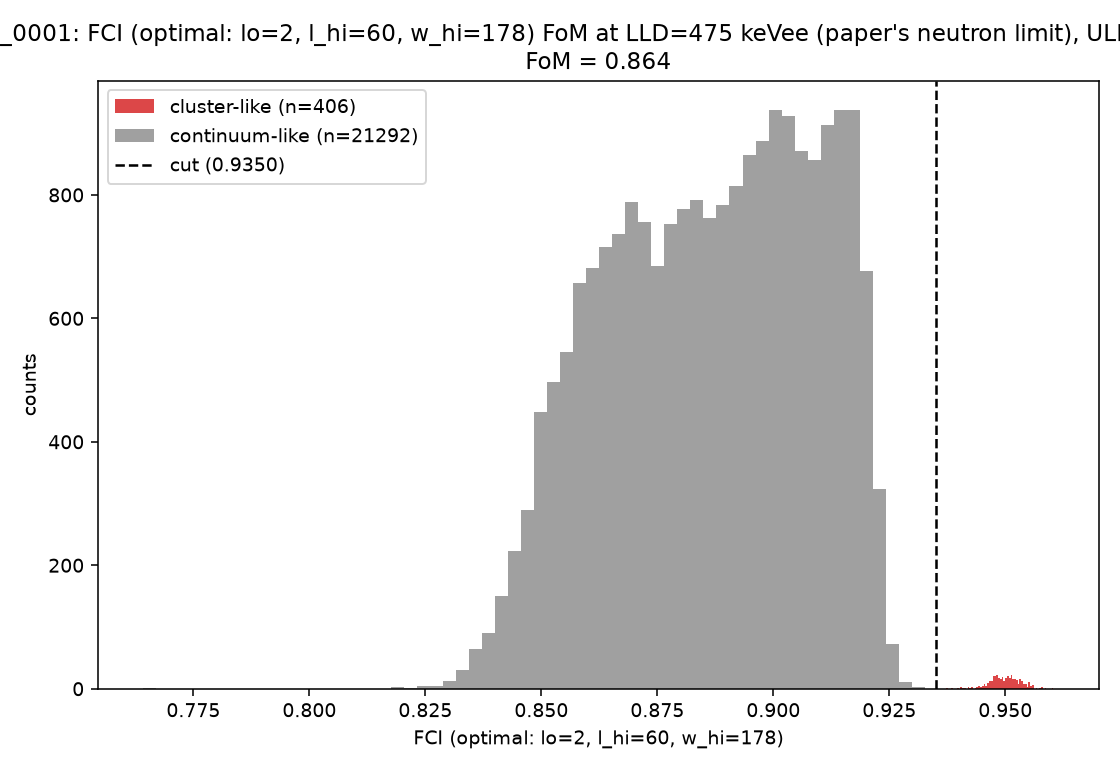
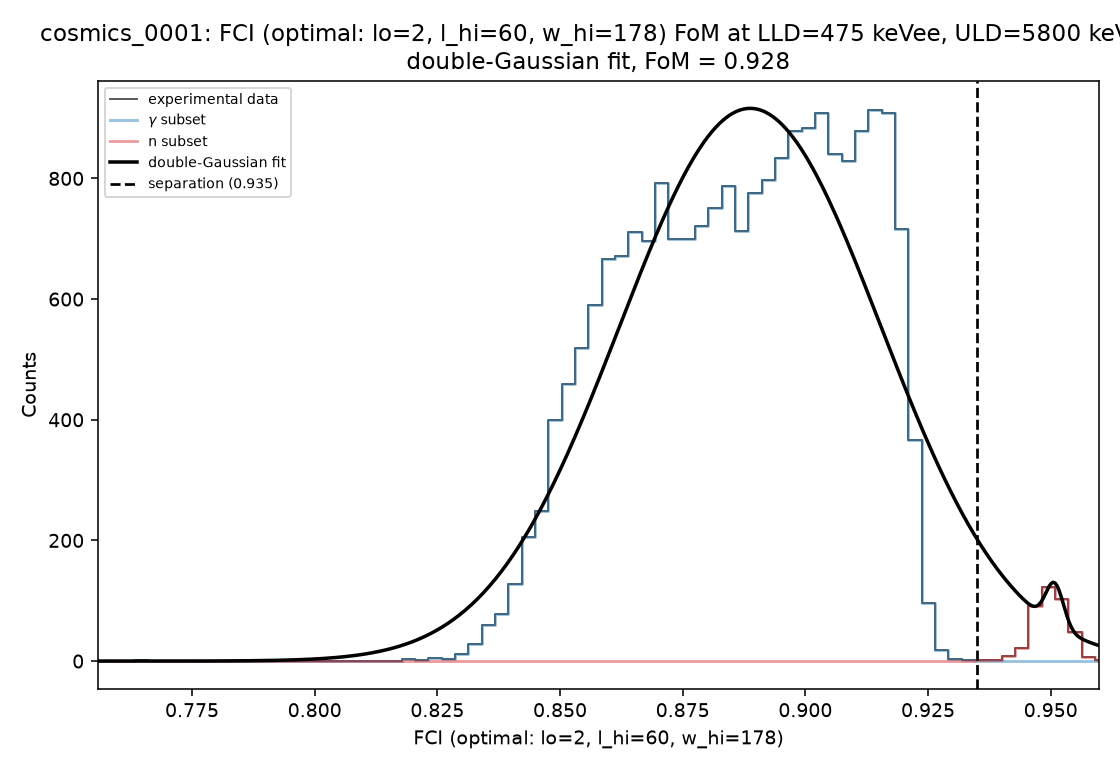
#23: add FoM plots with double-Gaussian fits

diff --git a/sw/analysis/plot_cosmics_optimal_psd_fci.py b/sw/analysis/plot_cosmics_optimal_psd_fci.py
@@ -37,8 +37,8 @@ from analysis.plot_cosmics_gn_metrics import (
     ULD_KEVEE,
     derive_separation_cuts,
     plot_fom_vs_energy,
-    robust_fom,
 )
+from analysis.plot_optimized_psd_fci import fit_double_gaussian, hist_panel
 
 DATA_PATH = "/home/ivan/datasets/cosmics-CLYC/cosmics_0001_optimal_psd_fci.csv"
 OUT_DIR = Path(__file__).resolve().parent.parent.parent / "docs" / "log" / "images"
@@ -152,24 +152,37 @@ def plot_fom_at_lld(values, keVee, cut, name, out_name, color,
     actual cluster/continuum separation. Fixing the floor at the paper's own limit is the same
     argument this section already made for the LLD=475 keVee histogram pair (8v): below it, no real
     neutron can produce this light output at all, so the population above it is a fair one to score.
+
+    The lobes at LLD=475 are not Gaussian-like (checked visually), so the FoM here comes from a
+    proper double-Gaussian fit -- sw/analysis/plot_optimized_psd_fci.py's own established
+    `fit_double_gaussian`, ONE six-parameter fit to the POOLED [LLD, ULD] histogram (not two
+    independently-fitted single Gaussians): the `cut` derived elsewhere in this section only seeds
+    the initial guess and labels which fitted component is which, exactly as that function already
+    does for this project's other double-Gaussian fits (§8s).
     """
     m = (keVee >= lld) & (keVee <= uld)
     v = values[m]
-    cluster, continuum = v[v >= cut], v[v < cut]
-    fom = robust_fom(cluster, continuum)
+    cluster_seed, continuum_seed = v[v >= cut], v[v < cut]
+    fit = fit_double_gaussian(continuum_seed, cluster_seed)
+    # hist_panel draws fit["crossing"] as the separation line, which fit_double_gaussian computes
+    # fresh from ITS OWN fitted components -- a different number, in general, from `cut` (the
+    # same-energy-window crossing point this section uses everywhere else: the vs-Energy plots, the
+    # FoM-vs-Energy sweep, the grid-search histograms). Overriding it here keeps one single
+    # separation value per metric across the whole section instead of a plot-specific refit of it;
+    # the FoM itself is unaffected (it comes from the fitted components' own mu/sigma, not from
+    # wherever the line is drawn).
+    fit["crossing"] = cut
     fig, ax = plt.subplots(figsize=(8, 5.5), dpi=140)
-    ax.hist(cluster, bins=60, color=color, alpha=0.85, label=f"cluster-like (n={len(cluster)})")
-    ax.hist(continuum, bins=60, color="gray", alpha=0.75, label=f"continuum-like (n={len(continuum)})")
-    ax.axvline(cut, color="black", linestyle="--", linewidth=1.3, label=f"cut ({cut:.4f})")
-    ax.set_xlabel(name); ax.set_ylabel("counts")
-    ax.set_title(f"cosmics_0001: {name} FoM at LLD={lld:.0f} keVee (paper's neutron limit), "
-                 f"ULD={uld:.0f} keVee\nFoM = {fom:.3f}")
-    ax.legend()
+    hist_panel(ax, fit,
+               xlabel=name,
+               title=f"cosmics_0001: {name} FoM at LLD={lld:.0f} keVee, ULD={uld:.0f} keVee\n"
+                     f"double-Gaussian fit, FoM = {fit['fom']:.3f}")
     plt.tight_layout()
     out = OUT_DIR / out_name
     plt.savefig(out); plt.close(fig)
-    print(f"saved {out}  FoM={fom:.3f}  n_cluster={len(cluster)}  n_continuum={len(continuum)}")
-    return fom
+    print(f"saved {out}  FoM={fit['fom']:.3f}  n_cluster_seed={len(cluster_seed)}  "
+          f"n_continuum_seed={len(continuum_seed)}")
+    return fit["fom"]
 
 
 def main():
@@ -193,9 +206,17 @@ def main():
                         out_name="cosmics_optimal_fom_vs_energy.png")
 
     plot_fom_at_lld(psd, keVee, sep["psd"], PSD_LABEL,
-                     "cosmics_optimal_psd_fom_lld475.png", "tab:blue")
+                     "cosmics_optimal_psd_fom_lld475.png", "tab:blue", lld=PAPER_NEUTRON_LIMIT_KEVEE)
     plot_fom_at_lld(fci, keVee, sep["fci"], FCI_LABEL,
-                     "cosmics_optimal_fci_fom_lld475.png", "tab:red")
+                     "cosmics_optimal_fci_fom_lld475.png", "tab:red", lld=PAPER_NEUTRON_LIMIT_KEVEE)
+    plot_fom_at_lld(psd, keVee, sep["psd"], PSD_LABEL,
+                     "cosmics_optimal_psd_fom_lld1000.png", "tab:blue", lld=1000.0)
+    plot_fom_at_lld(fci, keVee, sep["fci"], FCI_LABEL,
+                     "cosmics_optimal_fci_fom_lld1000.png", "tab:red", lld=1000.0)
+    plot_fom_at_lld(psd, keVee, sep["psd"], PSD_LABEL,
+                     "cosmics_optimal_psd_fom_lld2000.png", "tab:blue", lld=2000.0)
+    plot_fom_at_lld(fci, keVee, sep["fci"], FCI_LABEL,
+                     "cosmics_optimal_fci_fom_lld2000.png", "tab:red", lld=2000.0)
 
 
 if __name__ == "__main__":

diff --git a/docs/log/README.md b/docs/log/README.md
@@ -4371,30 +4371,66 @@ histogram in this section), which inflates the continuum group's spread enough t
 number depends more on how much of that skew survives than on the actual separation -- part of why
 the table above only reports 100 through 2,000 with a caveat rather than presenting all six sweep
 points as equally meaningful. A single, fixed-LLD number at the paper's own limit (475 keVee,
-Morales et al. §6.1) sidesteps that skew rather than needing to caveat around it each time:
+Morales et al. §6.1) sidesteps that skew rather than needing to caveat around it each time -- and
+because the lobes at a fixed LLD are not simple, symmetric Gaussians either, the FoM here comes from
+a proper fit rather than the median/IQR split used elsewhere in this section: ONE six-parameter
+double-Gaussian (sw/analysis/plot_optimized_psd_fci.py's own established `fit_double_gaussian`,
+already used for this project's other double-Gaussian fits in §8s) fit to the POOLED [LLD, ULD]
+histogram, not two independently-fitted curves -- the cut derived earlier only seeds the initial
+guess and labels which fitted component is which:
 
 ![PSD FoM at LLD=475 keVee, offline-optimal config](images/cosmics_optimal_psd_fom_lld475.png)
 
 ![FCI FoM at LLD=475 keVee, offline-optimal config](images/cosmics_optimal_fci_fom_lld475.png)
 
-**FCI: FoM = 0.864** (406 cluster-like, 21,292 continuum-like) -- a real gap between two visibly
-separated groups, the tight cluster sitting well clear of the broad continuum below it. **PSD: FoM
-= 0.554** (3,034 cluster-like, 18,664 continuum-like) -- numerically defined, but the histogram shows
-why it should be read differently: PSD's cut is slicing through the *tail of one broad, unimodal
-peak*, not separating two visibly distinct groups the way FCI's does. This matches what the rest of
-this section already established about PSD needing a much higher floor (~2,000 keVee, not 475) before
-its own cut isolates a population that looks like a real second class rather than ordinary
-continuum tail -- consistent, not a new problem introduced by fixing the LLD.
+**At LLD=475 keVee, the fit itself shows why the lobes aren't Gaussian-like.** FCI's continuum lobe
+is visibly skewed -- energies just above 475 keVee still have rapidly-rising FCI (the vs-Energy
+curve is far from flat there), so the "continuum" population's own shape is a sharp-edged ramp, not a
+bell curve, and the fitted Gaussian only approximates it (FoM = 0.928, but the fit's own gamma
+component runs visibly wider than the real, more sharply-bounded data). PSD's continuum lobe fits
+its own Gaussian well, but the "cluster" component the fit found is not a real second peak -- it is
+the fit spreading a second, broad Gaussian under the same long tail already flagged as contamination
+elsewhere in this section (FoM = 0.600, not a visually resolved bimodal split).
 
-**Net result: the grid-search optimum is a genuine, if modest, improvement over the deployed
-configuration for FCI specifically** -- FoM 0.864 at the paper's own LLD (475 keVee) and 1.85 at
-LLD=2,000 (vs. deployed's 1.13), both against a visibly, not just numerically, separated cluster.
-PSD's own gain is real at LLD=2,000 (§ above) but should not be claimed at 475 keVee, where its cut
-is not yet isolating a distinct population. Both configurations stay in a physically plausible range
-(§0/measured-pulse-shape's established ~4.9 us decay, ~740-800 ns rise), unlike v1/v2's runs to
-hundreds of bins/samples past anything physically motivated. **Still offline and still unconfirmed on
-hardware** -- see the previous subsection's closing paragraph -- but this is now a result worth that
-confirmation, not one already falsified by its own full-spectrum check.
+**Raising the floor to LLD=1,000 keVee -- past where FCI's own rise has mostly finished -- fixes
+this**, and is the more trustworthy pair of numbers for that reason:
+
+![PSD FoM at LLD=1,000 keVee, offline-optimal config](images/cosmics_optimal_psd_fom_lld1000.png)
+
+![FCI FoM at LLD=1,000 keVee, offline-optimal config](images/cosmics_optimal_fci_fom_lld1000.png)
+
+**FCI: FoM = 1.331**, two genuinely symmetric, well-separated Gaussian lobes with a clear valley
+between them -- the fit tracks the data closely across the whole range, not just near the peaks.
+**PSD: FoM = 0.875**, still weaker than FCI (a real second lobe is now visible, but shallower and
+less cleanly resolved) -- consistent with everything else this section has found about PSD needing a
+higher floor than FCI before it separates a real population rather than a continuum tail.
+
+**A third pair at LLD=2,000 keVee -- matching this section's own earlier cumulative-sweep floor --
+completes the picture**, both fits now clean for both metrics:
+
+![PSD FoM at LLD=2,000 keVee, offline-optimal config](images/cosmics_optimal_psd_fom_lld2000.png)
+
+![FCI FoM at LLD=2,000 keVee, offline-optimal config](images/cosmics_optimal_fci_fom_lld2000.png)
+
+**FCI: FoM = 1.851** and **PSD: FoM = 0.991** -- both visibly two-lobed now, PSD's second lobe
+finally as clearly separated from its main peak as FCI's has been since LLD=1,000. FCI's number
+(1.851) lands almost exactly on the cumulative FoM-vs-Energy sweep's own LLD=2,000 point (1.854,
+computed the median/IQR way rather than by fitting) -- two different methods agreeing is a good sign
+neither is an artifact of its own procedure. PSD's two methods agree less closely (0.991 here vs.
+0.959 there), a modest, expected difference given how differently a skewed lobe's edges get
+weighted by a fit versus a median split, not a discrepancy either casts doubt on.
+
+**Net result: the grid-search optimum is a genuine improvement over the deployed configuration for
+FCI at every LLD checked with a proper fit, and for PSD from LLD=1,000 keVee up** -- FCI FoM rises
+from 0.928 (475 keVee, poorly-fit lobe) to 1.331 (1,000) to 1.851 (2,000, vs. deployed's 1.13),
+consistently against a visibly, not just numerically, separated cluster. PSD only reaches a visibly
+two-lobed fit from LLD=1,000 keVee (0.875) up (0.991 at 2,000) -- its gain should not be claimed at
+the paper's own 475 keVee floor, where its cut is not yet isolating a distinct population. Both
+configurations stay in a physically plausible range (§0/measured-pulse-shape's established ~4.9 us
+decay, ~740-800 ns rise), unlike v1/v2's runs to hundreds of bins/samples past anything physically
+motivated. **Still offline and still unconfirmed on hardware** -- see the previous subsection's
+closing paragraph -- but this is now a result worth that confirmation, not one already falsified by
+its own full-spectrum check.
 
 ---
 
@@ -4466,13 +4502,15 @@ confirmation, not one already falsified by its own full-spectrum check.
   full [2,000, 4,000] keVee region; use the plain peak for energy), the search now finds a genuine
   improvement, confirmed by the same full-spectrum check that caught the earlier failures (stable
   ~405-event cluster population across LLD, correctly collapsing above the cluster's own energy) and
-  by a single fixed-LLD FoM at the paper's own neutron limit (475 keVee) rather than the
-  cumulative sweep's own skew-prone low-LLD points: **FCI FoM 0.864 at LLD=475 / 1.85 at LLD=2,000
-  (vs. deployed 1.13), against a visibly separated cluster in both cases. PSD's own gain is real at
-  LLD=2,000 but not yet at 475 keVee, where its cut is still slicing the tail of one broad peak
-  rather than isolating a distinct population** — an honest limitation, not glossed over. Still
-  offline and unconfirmed on hardware. Also found along the way: raw scope-trace logging duplicates
-  **36.0%** of all rows dataset-wide (98,472/273,724) — the same buffer logged twice under two
+  by fixed-LLD double-Gaussian fits (ONE pooled six-parameter fit, this project's own established
+  `fit_double_gaussian`) at 475 (the paper's neutron limit), 1,000, and 2,000 keVee rather than the
+  cumulative sweep's own skew-prone low-LLD points: **FCI FoM rises 0.928 → 1.331 → 1.851 across
+  those three floors (vs. deployed 1.13 at 2,000), a visibly separated cluster at every one. PSD only
+  reaches a visibly two-lobed fit from 1,000 keVee up (0.875 → 0.991); at 475 keVee its cut is still
+  slicing the tail of one broad peak, not isolating a distinct population** — an honest limitation,
+  not glossed over. Still offline and unconfirmed on hardware. Also found along the way: raw
+  scope-trace logging duplicates **36.0%** of all rows dataset-wide (98,472/273,724) — the same
+  buffer logged twice under two
   different timestamps — a real firmware/logging bug, now worked around in analysis but not yet
   fixed at the source
 
